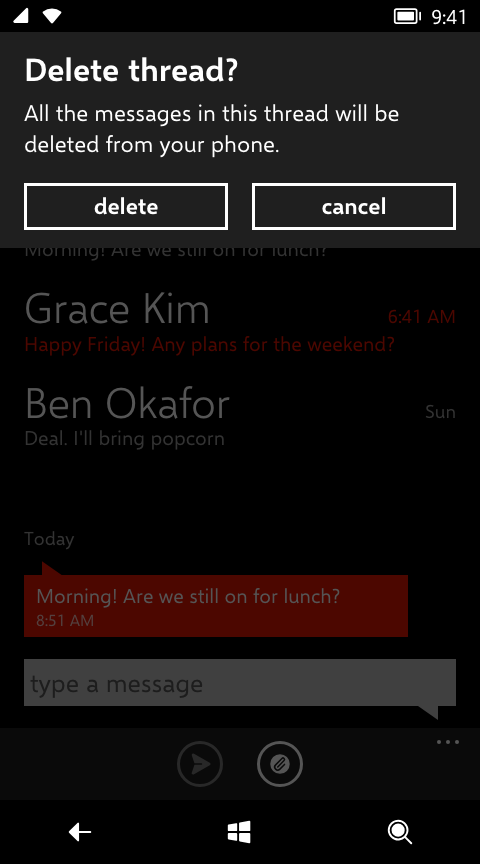
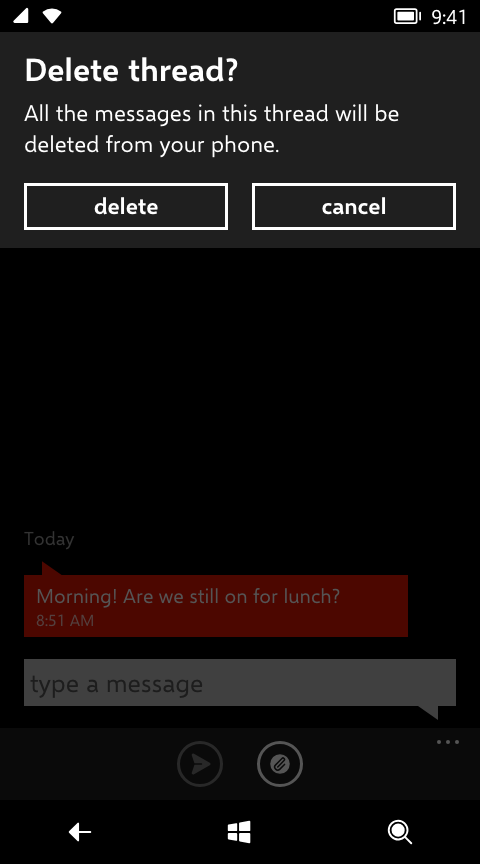
Pages: hidden pages no longer show through
A pivot item in view and a checked Messaging checkbox set
visibility: visible, which overrides the hidden page host above them,
so they showed through the page on top (Wi-Fi, theme, message box
screenshots). Both now use visibility: inherit, and the navigation
authoring contract says why.

diff --git a/src/index.css b/src/index.css
@@ -287,9 +287,10 @@ a:focus-visible,
   display: none;
 }
 
+/* inherit, not visible: a page further down the stack is hidden, and so are its items. */
 .pivot-item[data-visible='true'],
 .pivot-item[data-visible=''] {
-  visibility: visible;
+  visibility: inherit;
 }
 
 .page-content {

diff --git a/src/apps/messaging/messaging.css b/src/apps/messaging/messaging.css
@@ -47,7 +47,7 @@
 }
 
 .messaging-check[data-checked] svg {
-  visibility: visible;
+  visibility: inherit;
 }
 
 .messaging-thread-body {

diff --git a/docs/design/08-navigation.md b/docs/design/08-navigation.md
@@ -85,3 +85,4 @@ Pages describe themselves to the shell with a few attributes and hooks. Follow t
 - Don't navigate on `click` alone; it loses the tilt and fires during pans.
 - Don't unmount pages to "reset" them; the stack keeps them so Back restores their state.
 - Don't add your own Back or close buttons to pages. Use Back, or the app bar's **cancel** in pickers and forms, as the phone does.
+- Don't set `visibility: visible` on anything inside a page. Pages further down the stack stay mounted under `visibility: hidden`, and `visible` on a descendant shows it through the page on top. Use `visibility: inherit` to undo a `hidden`.
